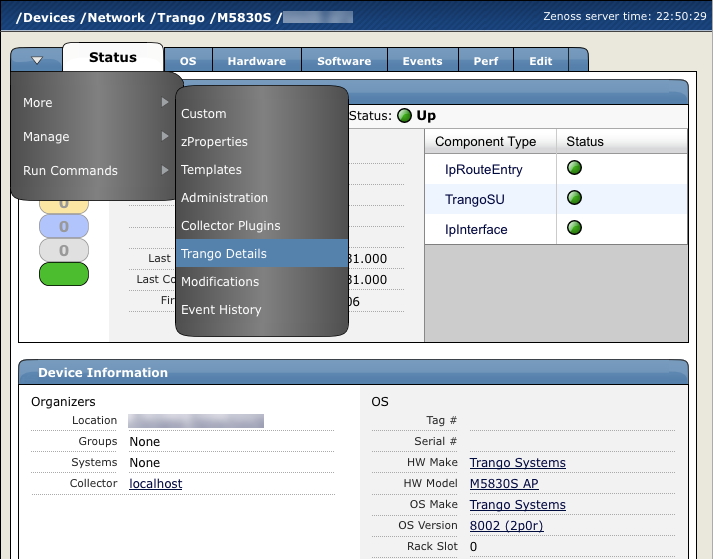
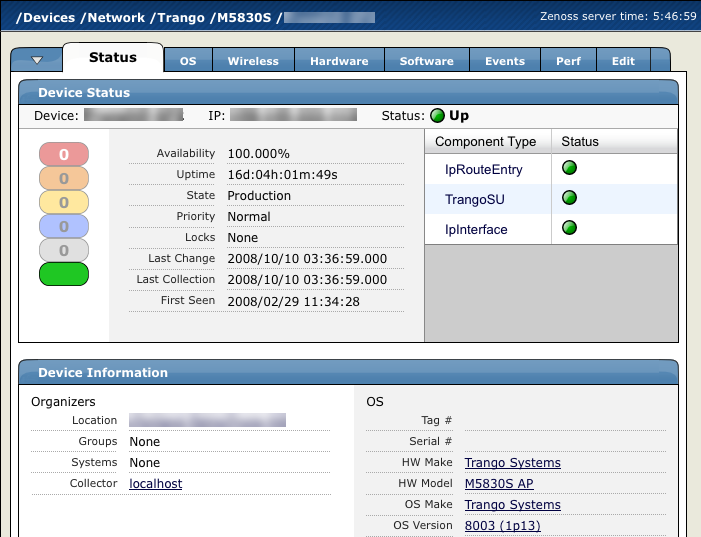
* Fixes #1057: Moves Trango and Falcon details from menus to tabs. Reviewed by ian.
git-svn-id: http://dev.zenoss.com/svnint/trunk/enterprise/zenpacks/ZenPacks.zenoss.TrangoMonitor@2921 f5df01ce-0320-0410-9ed9-ddcd13c732cc

diff --git a/ZenPacks/zenoss/TrangoMonitor/TrangoDevice.py b/ZenPacks/zenoss/TrangoMonitor/TrangoDevice.py
@@ -7,6 +7,8 @@
 from Globals import InitializeClass
 from Products.ZenRelations.RelSchema import *
 from Products.ZenModel.Device import Device
+from Products.ZenModel.ZenossSecurity import ZEN_VIEW
+from copy import deepcopy
 
 
 class TrangoDevice(Device):
@@ -80,6 +82,18 @@ class TrangoDevice(Device):
         ('subscriberUnits', ToManyCont(ToOne,
             'ZenPacks.zenoss.TrangoMonitor.TrangoSU', 'accessPoint')),
         )
+    
+    
+    factory_type_information = deepcopy(Device.factory_type_information)
+    custom_actions = []
+    custom_actions.extend(factory_type_information[0]['actions'])
+    custom_actions.insert(2,
+           { 'id'              : 'trangoDeviceDetail'
+           , 'name'            : 'Wireless'
+           , 'action'          : 'trangoDeviceDetail'
+           , 'permissions'     : (ZEN_VIEW, ) },
+           )
+    factory_type_information[0]['actions'] = custom_actions
 
 
     def __init__(self, *args, **kw):

diff --git a/setup.py b/setup.py
@@ -3,7 +3,7 @@
 # or saved.  Do not modify them directly here.
 # NB: PACKAGES is deprecated
 NAME = "ZenPacks.zenoss.TrangoMonitor"
-VERSION = "1.0.0"
+VERSION = "1.1.0"
 AUTHOR = "Zenoss"
 LICENSE = ""
 NAMESPACE_PACKAGES = ['ZenPacks', 'ZenPacks.zenoss']
